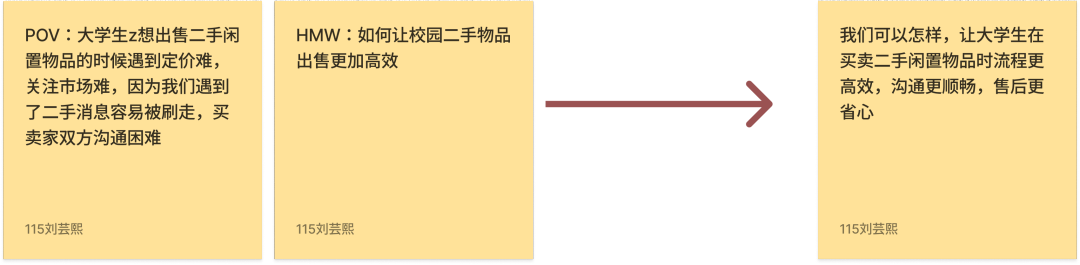
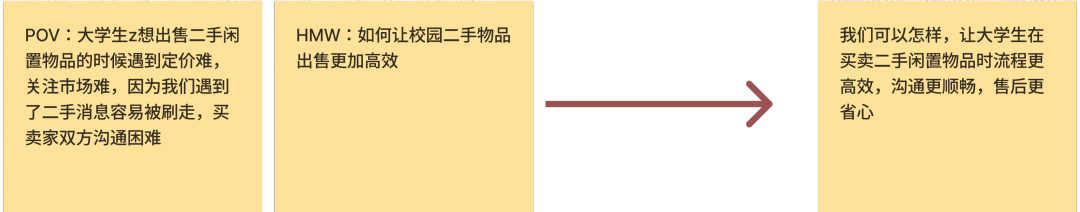
POV/HMW恢复三组文字卡+原板图裁署名缩小居中；手绘初稿与视觉板块排版优化(等高卡片/图标+表情包行)

diff --git a/index.html b/index.html
@@ -151,21 +151,22 @@ details .dbody{padding:0 16px 16px;font-size:.78rem;color:#4A5063}
 .ps h3{font-size:clamp(19px,2.8vw,26px);font-weight:900;line-height:1.5;margin-top:10px}
 .ps h3 em{font-style:normal;color:var(--or)}
 .ps p{font-size:.76rem;color:#B9BECB;margin-top:12px}
-.povimg{background:#fff;border:1px solid var(--line);border-radius:16px;padding:18px;box-shadow:0 10px 28px rgba(21,23,28,.05)}
+.pov3{display:grid;grid-template-columns:repeat(3,1fr);gap:12px}
+.povimg{max-width:680px;margin:20px auto 0;background:#fff;border:1px solid var(--line);border-radius:16px;padding:14px 16px;box-shadow:0 10px 28px rgba(21,23,28,.05)}
 .povimg img{width:100%;border-radius:8px;display:block}
 .povcap{font-size:.74rem;color:var(--mut);margin-top:12px;line-height:1.7}
 .povcap b{color:var(--ink);display:block;margin-bottom:2px;font-size:.8rem}
-.sk2{display:grid;grid-template-columns:1fr 1fr;gap:14px;margin-bottom:14px}
-.sk2 figure{margin:0;background:#FBFCFE;border:1px solid var(--line);border-radius:16px;padding:12px;box-shadow:0 10px 28px rgba(21,23,28,.05)}
-.sk2 img{width:100%;height:380px;object-fit:contain;border-radius:8px;background:#fff}
-.sk2 figcaption{font-size:.72rem;color:var(--mut);margin-top:10px;line-height:1.6}
+.sk2{display:grid;grid-template-columns:1fr 1fr;gap:16px;margin-bottom:16px}
+.sk2 figure{margin:0;background:#fff;border:1px solid var(--line);border-radius:16px;padding:16px 16px 14px;box-shadow:0 10px 28px rgba(21,23,28,.06);display:flex;flex-direction:column}
+.sk2 img{width:100%;height:400px;object-fit:contain;border-radius:10px;background:#fff;border:1px dashed var(--line)}
+.sk2 figcaption{font-size:.72rem;color:var(--mut);margin-top:12px;line-height:1.7}
 .sk2 figcaption b{display:block;color:var(--ink);font-size:.78rem;margin-bottom:2px}
-.vis2{display:grid;grid-template-columns:1fr 2fr;gap:14px}
-.vis2 figure{margin:0;background:#fff;border:1px solid var(--line);border-radius:16px;padding:12px;box-shadow:0 10px 28px rgba(21,23,28,.05)}
-.vis2 img{width:100%;height:240px;object-fit:contain;border-radius:8px}
-.vis2 figcaption{font-size:.72rem;color:var(--mut);margin-top:10px}
+.vis2{display:grid;grid-template-columns:300px 1fr;gap:16px}
+.vis2 figure{margin:0;background:#fff;border:1px solid var(--line);border-radius:16px;padding:16px 16px 14px;box-shadow:0 10px 28px rgba(21,23,28,.06);display:flex;flex-direction:column}
+.vis2 img{width:100%;flex:1;min-height:0;object-fit:contain;border-radius:10px;background:#fff}
+.vis2 figcaption{font-size:.72rem;color:var(--mut);margin-top:12px}
 .vis2 figcaption b{display:block;color:var(--ink);font-size:.78rem;margin-bottom:2px}
-@media(max-width:860px){.sk2,.vis2{grid-template-columns:1fr}.pov3{grid-template-columns:1fr}}
+@media(max-width:860px){.sk2,.vis2{grid-template-columns:1fr}.pov3{grid-template-columns:1fr}.vis2 img{height:220px}}
 .pov{background:#FFF3B8;border-radius:12px;padding:14px;font-size:.72rem;line-height:1.65;color:#5C4A1E;box-shadow:2px 3px 0 rgba(21,23,28,.1)}
 .pov b{display:block;font-size:.76rem;margin-bottom:5px}
 .pov.hmw{background:#FFE3EE;color:#7E3A5C}
@@ -471,9 +472,18 @@ footer{border-top:1px solid var(--line);padding:26px 0;font-size:.66rem;color:va
     <p>由 POV · 115 刘芸熙「定价难、消息易被刷走、买卖双方沟通困难」收敛而来</p>
   </div>
 
+  <div class="pov3 rv">
+    <div class="pov"><b>POV · 沟通回复低效率</b>等待回复、反复催促与讨价还价消耗大量时间精力——「感觉发的消息一发就沉大海了」（E03）</div>
+    <div class="pov hmw"><b>HMW</b>我们如何让每一次询问与回复即时可见，沟通不再石沉大海？</div>
+    <div class="pov"><b>POV · 定价比价困难</b>定价没有参照，只能凭感觉开价——「我说我的 500 块钱，已经是最低了，他上来问我 250 卖不卖」（E18）</div>
+    <div class="pov hmw"><b>HMW</b>我们如何让成交价沉淀下来，成为下一次定价的参照？</div>
+    <div class="pov"><b>POV · 交易缺保障</b>纠纷没有约束与兜底——「最好针对纠纷行为，可以有客服介入，就跟闲鱼的小法庭一样」（E14）</div>
+    <div class="pov hmw"><b>HMW</b>我们如何给校内交易加上规则与兜底？</div>
+  </div>
+
   <div class="povimg rv">
-    <img src="assets/design/pov-hmw.png" alt="POV与HMW原板便签：115刘芸熙">
-    <div class="povcap"><b>POV → HMW · 原板便签（115 刘芸熙）</b>POV：大学生想出售二手闲置物品的时候遇到定价难，关注市场难，因为我们遇到了二手消息容易被刷走，买卖家双方沟通困难 → HMW：如何让校园二手物品出售更加高效 → 设计问题：我们可以怎样，让大学生在买卖二手闲置物品时流程更高效，沟通更顺畅，售后更省心</div>
+    <img src="assets/design/pov-hmw.png" alt="POV与HMW原板便签">
+    <div class="povcap"><b>POV → HMW · 原板便签</b>问题的重新定义过程：从调研痛点出发，收敛为一句设计问题</div>
   </div>
 
   <h3 style="font-size:1.05rem;margin:30px 0 6px">头脑风暴 · 从洞察到产品的发散</h3>
